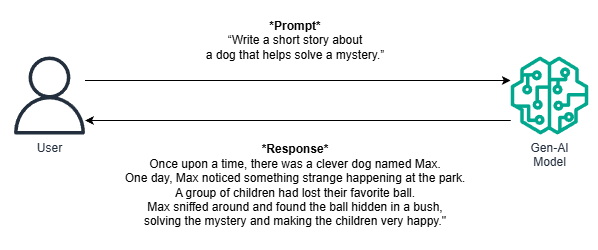
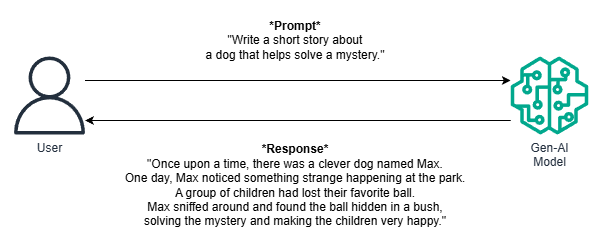
Update content.

diff --git a/Machine Learning/Prompt Engineering.md b/Machine Learning/Prompt Engineering.md
@@ -3,9 +3,9 @@
 ## Contents <!-- omit in toc -->
 
 - [1. Introduction](#1-introduction)
+  - [1.1. Enhanced Prompt](#11-enhanced-prompt)
 - [2. Prompt Techniques](#2-prompt-techniques)
-  - [2.1. Enhanced Prompt](#21-enhanced-prompt)
-  - [2.2. Negative Prompting](#22-negative-prompting)
+  - [2.1. Negative Prompting](#21-negative-prompting)
 - [3. Prompt Performance Optimization](#3-prompt-performance-optimization)
   - [3.1. Prompt Latency](#31-prompt-latency)
 - [4. Prompt Engineering Techniques](#4-prompt-engineering-techniques)
@@ -26,29 +26,30 @@
     - Summarize what is AWS
 - Prompt gives little guidance and leaves a lot to the model's interpretation.
 - **Prompt Engineering** = developing, designing, and optimizing prompts to enhance the output of FMs for your needs.
-  - Improved Prompting technique consists of:
+  - **Improved Prompting technique consists of**
     - **Instructions** - A task for the model to do (description, how the model should perform).
     - **Context** - External information to guide the model.
     - **Input data** - The input for which you want a response.
     - **Output Indicator** - The output type or format.
 
+## 1.1. Enhanced Prompt
+
+- **Example**
+  - **Instructions**
+    - Write a concise summary that captures the main points of an article about learning AWS (Amazon Web Services). Ensure that the summary is clear and informative, focusing on key services relevant to beginners. Include details about general learning resources and career benefits associated with acquiring AWS skills.
+  - **Context**
+    - I am teaching a beginner's course on AWS.
+  - **Input Data**
+    - Here is the input text:
+      - Amazon Web Services (AWS) is a leading cloud platform providing a variety of services suitable for different business needs. Learning AWS involves getting familiar with essential services like EC2 for computing, S3 for storage, RDS for databases, Lambda for serverless computing, and Redshift for data warehousing. Beginners can start with free courses and basic tutorials available online. The platform also includes more complex services like Lambda for serverless computing and Redshift for data warehousing, which are suited for advanced users. The article emphasizes the value of understanding AWS for career advancement and the availability of numerous certifications to validate cloud skills.
+  - **Output Indicator**
+    - Provide a 2-3 sentence summary that captures the essence of the article.
+  - **Expected Output**
+    - AWS offers a range of essential cloud services such as EC2 for computing, S3 for storage, RDS for databases, Lambda for serverless computing, and Redshift for data warehousing, which are crucial for beginners to learn. Beginners can utilize free courses and basic tutorials to build their understanding of AWS. Acquiring AWS skills is valuable for career advancement, with certifications available to validate expertise in cloud computing.
+
 # 2. Prompt Techniques
 
-## 2.1. Enhanced Prompt
-
-- **Instructions**
-  - "Write a concise summary that captures the main points of an article about learning AWS (Amazon Web Services). Ensure that the summary is clear and informative, focusing on key services relevant to beginners. Include details about general learning resources and career benefits associated with acquiring AWS skills.
-- **Context**
-  - I am teaching a beginner's course on AWS.
-- **Input Data**
-  - Here is the input text:
-    - 'Amazon Web Services (AWS) is a leading cloud platform providing a variety of services suitable for different business needs. Learning AWS involves getting familiar with essential services like EC2 for computing, S3 for storage, RDS for databases, Lambda for serverless computing, and Redshift for data warehousing. Beginners can start with free courses and basic tutorials available online. The platform also includes more complex services like Lambda for serverless computing and Redshift for data warehousing, which are suited for advanced users. The article emphasizes the value of understanding AWS for career advancement and the availability of numerous certifications to validate cloud skills.'
-- **Output Indicator**
-  - Provide a 2-3 sentence summary that captures the essence of the article."
-- **Expected Output**
-  - "AWS offers a range of essential cloud services such as EC2 for computing, S3 for storage, RDS for databases, Lambda for serverless computing, and Redshift for data warehousing, which are crucial for beginners to learn. Beginners can utilize free courses and basic tutorials to build their understanding of AWS. Acquiring AWS skills is valuable for career advancement, with certifications available to validate expertise in cloud computing."
-
-## 2.2. Negative Prompting
+## 2.1. Negative Prompting
 
 - A technique where you explicitly instruct the model on what not to include or do in its response.
 - **Negative Prompting helps to**
@@ -57,12 +58,12 @@
   - **Enhance Clarity:** Prevents the use of complex terminology or detailed data, making the output clearer and more accessible
 - **Example**
   - **Instructions**
-    - "Write a concise summary that captures the main points of an article about learning AWS (Amazon Web Services). Ensure that the summary is clear and informative, focusing on key services relevant to beginners. Include details about general learning resources and career benefits associated with acquiring AWS skills. **Avoid discussing detailed technical configurations, specific AWS tutorials, or personal learning experiences.**
+    - Write a concise summary that captures the main points of an article about learning AWS (Amazon Web Services). Ensure that the summary is clear and informative, focusing on key services relevant to beginners. Include details about general learning resources and career benefits associated with acquiring AWS skills. **Avoid discussing detailed technical configurations, specific AWS tutorials, or personal learning experiences.**
   - **Context**
     - I am teaching a beginner's course on AWS.
   - **Input Data**
     - Here is the input text:
-      - 'Amazon Web Services (AWS) is a leading cloud platform providing a variety of services suitable for different business needs. Learning AWS involves getting familiar with essential services like EC2 for computing, S3 for storage, RDS for databases, Lambda for serverless computing, and Redshift for data warehousing. Beginners can start with free courses and basic tutorials available online. The platform also includes more complex services like Lambda for serverless computing and Redshift for data warehousing, which are suited for advanced users. The article emphasizes the value of understanding AWS for career advancement and the availability of numerous certifications to validate cloud skills.'
+      - Amazon Web Services (AWS) is a leading cloud platform providing a variety of services suitable for different business needs. Learning AWS involves getting familiar with essential services like EC2 for computing, S3 for storage, RDS for databases, Lambda for serverless computing, and Redshift for data warehousing. Beginners can start with free courses and basic tutorials available online. The platform also includes more complex services like Lambda for serverless computing and Redshift for data warehousing, which are suited for advanced users. The article emphasizes the value of understanding AWS for career advancement and the availability of numerous certifications to validate cloud skills.
   - **Output Indicator**
     - Provide a 2-3 sentence summary that captures the essence of the article. **Do not include technical terms, in-depth data analysis, or speculation.**"
 
@@ -113,6 +114,7 @@
 - Using a sentence like "Think step by step" helps.
 - Helpful when solving a problem as a human usually requires several steps.
 - Can be combined with Zero-Shot or Few-Shots Prompting.
+  ![Prompt Engineering Techniques - Chain of  Thought Prompting](/Images/Machine%20Learning/PromptEngineeringTechniquesChainThoughtPrompting.png)
 
 ## 4.4. Retrieval-Augmented Generation (RAG)
 

diff --git a/Machine Learning/Amazon SageMaker.md b/Machine Learning/Amazon SageMaker.md
@@ -54,6 +54,7 @@
 - **Supervised Algorithms**
   - Linear regressions and classifications.
   - KNN Algorithms (for classification).
+  - Logistic regression.
 - **Unsupervised Algorithms**
   - **Principal Component Analysis (PCA):** Reduce number of features.
   - **K-means:** Find grouping within data.
@@ -74,20 +75,29 @@
 - **Managed solution:** Reduced overhead.
 - **Real-time**
   - One prediction at a time.
+    ![Amazon SageMaker - Deployment Real-time](/Images/Machine%20Learning/AmazonSageMakerDeploymentRealtime.png)
 - **Serverless**
   - Idle period between traffic spikes.
   - Can tolerate more latency (cold starts).
+    ![Amazon SageMaker - Deployment Serverless](/Images/Machine%20Learning/AmazonSageMakerDeploymentServerless.png)
 - **Asynchronous**
-  - For large payload sizes up to 1GB
-  - Long processing times
-  - Near-real time latency requirements
-  - Request and responses are in Amazon S3
+  - For large payload sizes up to 1GB.
+  - Long processing times.
+  - Near-real time latency requirements.
+  - Request and responses are in Amazon S3.
+  - TODO DIAGRAM
 - **Batch**
-  - Prediction for an entire dataset (multiple predictions)
+  - Prediction for an entire dataset (multiple predictions).
+  - TODO DIAGRAM
 
 # 6. Model Deployment Comparison
 
-TODO TABLE
+| Inference Type         | Latency                         | Payload Size                                 | Processing Time | Use Case                                                                        |                                   |
+| ---------------------- | ------------------------------- | -------------------------------------------- | --------------- | ------------------------------------------------------------------------------- | --------------------------------- |
+| Real-time Inference    | Low (milliseconds to seconds)   | Up to 25 MB (one record)                     | Max 60 seconds  | Fast, near-instant predictions for web/mobile apps                              |                                   |
+| Serverless Inference   | Low (milliseconds to seconds)   | Up to 4 MB (one record)                      | Max 60 seconds  | Sporadic, short-term inference without infrastructure, can tolerate cold starts |                                   |
+| Asynchronous Inference | Medium to High "near real-time" | Up to 1 GB (one record)                      | Max 1 hour      | Large payloads and workloads requiring longer processing times                  | requiring longer processing times |
+| Batch Transform        | High (minutes to hours)         | Up to 100 MB per invocation (per mini batch) | Max 1 hour      | Bulk processing for large datasets Concurrent processing                        |                                   |
 
 # 7. SageMaker Studio
 

diff --git a/Machine Learning/Amazon Augmented AI.md b/Machine Learning/Amazon Augmented AI.md
@@ -3,6 +3,7 @@
 ## Contents <!-- omit in toc -->
 
 - [1. Introduction](#1-introduction)
+- [2. Amazon Augmented AI (A2I) vs. Amazon Mechanical Turk](#2-amazon-augmented-ai-a2i-vs-amazon-mechanical-turk)
 
 # 1. Introduction
 
@@ -12,3 +13,13 @@
 - The ML model can be built on AWS or elsewhere (SageMaker, Rekognition...).
 
 TODO DIAGRAM
+
+# 2. Amazon Augmented AI (A2I) vs. Amazon Mechanical Turk
+
+| Amazon Augmented AI (A2I)               | Amazon Mechanical Turk (MTurk)              |
+| --------------------------------------- | ------------------------------------------- |
+| Human review workflow service           | Crowdsourcing marketplace                   |
+| Adds **human review** to AI predictions | Provides **human workers** to perform tasks |
+| Integrates with AI/ML services          | Can be used independently of AI             |
+| Used when model confidence is low       | Used to label or process data               |
+| Automates routing to human reviewers    | Humans manually complete assigned tasks     |

diff --git a/Machine Learning/AI and ML.md b/Machine Learning/AI and ML.md
@@ -62,7 +62,7 @@
 - [22. Data Augmentation](#22-data-augmentation)
 - [23. What to do if overfitting?](#23-what-to-do-if-overfitting)
 - [24. When is Machine Learning NOT appropriate?](#24-when-is-machine-learning-not-appropriate)
-- [25. Model inference vs Model evaluation](#25-model-inference-vs-model-evaluation)
+- [25. Model evaluation vs Model inference](#25-model-evaluation-vs-model-inference)
 
 # 1. What is Artificial Intelligence (AI)?
 
@@ -314,7 +314,7 @@ TODO DIAGRAM
 
 ### 13.2.2. Association Rule Learning Technique
 
-- **Example:** Market Basket Analysis
+- **Example:** Market Basket Analysis.
   - **Scenario:** Supermarket wants to understand which products are frequently bought together.
   - **Data:** Transaction records from customer purchases.
   - **Goal:** Identify associations between products to optimize product placement and promotions.
@@ -636,7 +636,7 @@ TODO DIAGRAM
 - If we use Supervised Learning, Unsupervised Learning or Reinforcement Learning, we may have an "approximation" of the result.
 - Even though nowadays LLMs have reasoning capabilities, they are not perfect and therefore a "worse" solution.
 
-# 25. Model inference vs Model evaluation
+# 25. Model evaluation vs Model inference
 
-- Model inference is the process of a model generating an output (response) from a given input (prompt).
 - Model evaluation is the process of evaluating and comparing model outputs to determine the model that is best suited for a use case.
+- Model inference is the process of a model generating an output (response) from a given input (prompt).

diff --git a/Machine Learning/Amazon Polly.md b/Machine Learning/Amazon Polly.md
@@ -1,4 +1,4 @@
-# Amazon Poly <!-- omit in toc -->
+# Amazon Polly <!-- omit in toc -->
 
 ## Contents <!-- omit in toc -->
 
@@ -9,6 +9,7 @@
 
 - Turn text into lifelike speech using deep learning.
 - Allowing we to create applications that talk.
+  ![Amazon Polly](/Images/Machine%20Learning/AmazonPolly.png)
 
 # 2. Advanced Features
 

diff --git a/Machine Learning/Amazon Bedrock.md b/Machine Learning/Amazon Bedrock.md
@@ -230,6 +230,7 @@ TODO: diagram
 
 | Continued Pre-training                                           | Fine-tuning                                                                              |
 | ---------------------------------------------------------------- | ---------------------------------------------------------------------------------------- |
+| Self-supervised                                                  | Supervised                                                                               |
 | Uses **unlabeled data**                                          | Uses **labeled data**                                                                    |
 | Improves **domain knowledge**                                    | Improves **task-specific performance**                                                   |
 | Teaches the model new information and context                    | Teaches the model desired input-output behavior                                          |

diff --git a/Machine Learning/Amazon Kendra.md b/Machine Learning/Amazon Kendra.md
@@ -11,3 +11,4 @@
 - Natural language search capabilities.
 - Learn from user interactions/feedback to promote preferred results **(Incremental Learning)**.
 - Ability to manually fine-tune search results (importance of data, freshness, custom, ...).
+  ![Amazon Kendra](/Images/Machine%20Learning/AmazonKendra.png)